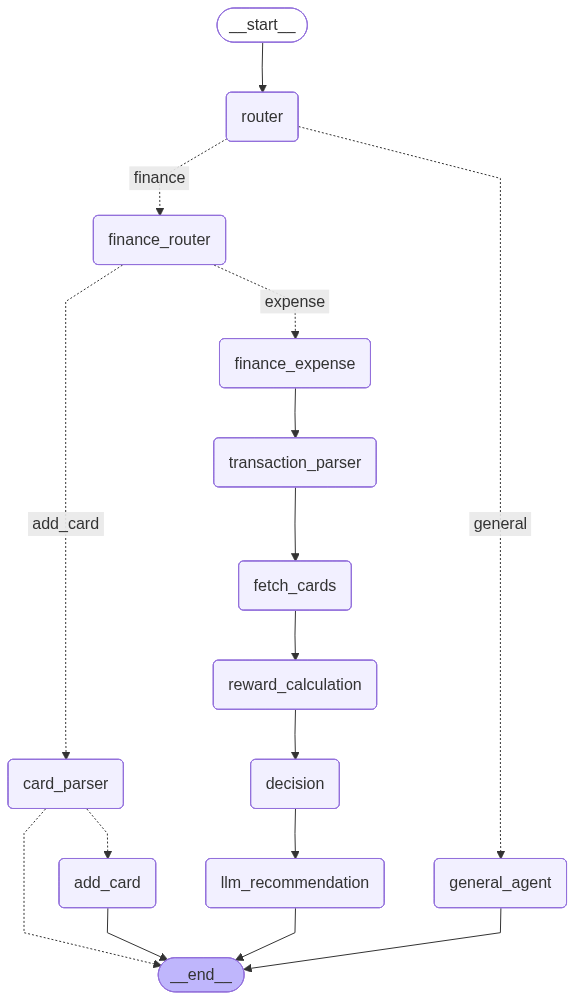
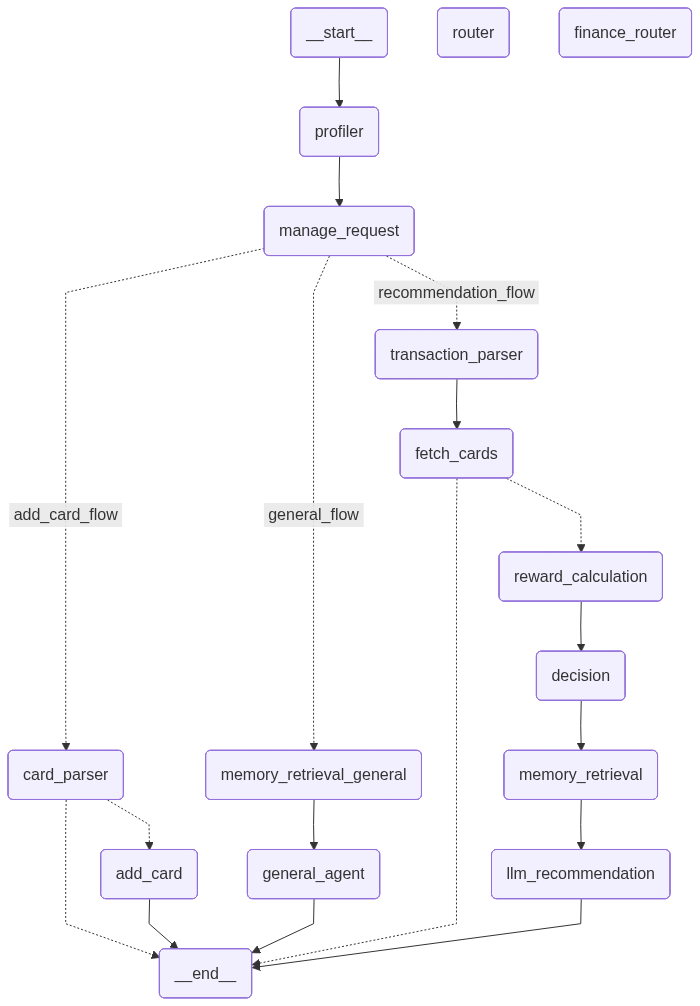
update tavily and main command to start the app

diff --git a/app/tools/web_search.py b/app/tools/web_search.py
@@ -1,14 +1,14 @@
 """
 Web search tool for finding product prices using Tavily API
 """
-from langchain_community.tools.tavily_search import TavilySearchResults
+from langchain_tavily import TavilySearch
 from langchain_core.tools import tool
 import re
 import os
 
 # Initialize Tavily search with API key
 os.environ["TAVILY_API_KEY"] = "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"
-tavily_search = TavilySearchResults(max_results=5)
+tavily_search = TavilySearch(max_results=5)
 
 @tool
 def search_product_price(product_name: str) -> str:

diff --git a/main.py b/main.py
@@ -772,3 +772,7 @@ async def health_check():
         raise HTTPException(status_code=503, detail=health_status)
     
     return health_status
+
+if __name__ == "__main__":
+    import uvicorn
+    uvicorn.run("main:app", host="0.0.0.0", port=8000, reload=True)
